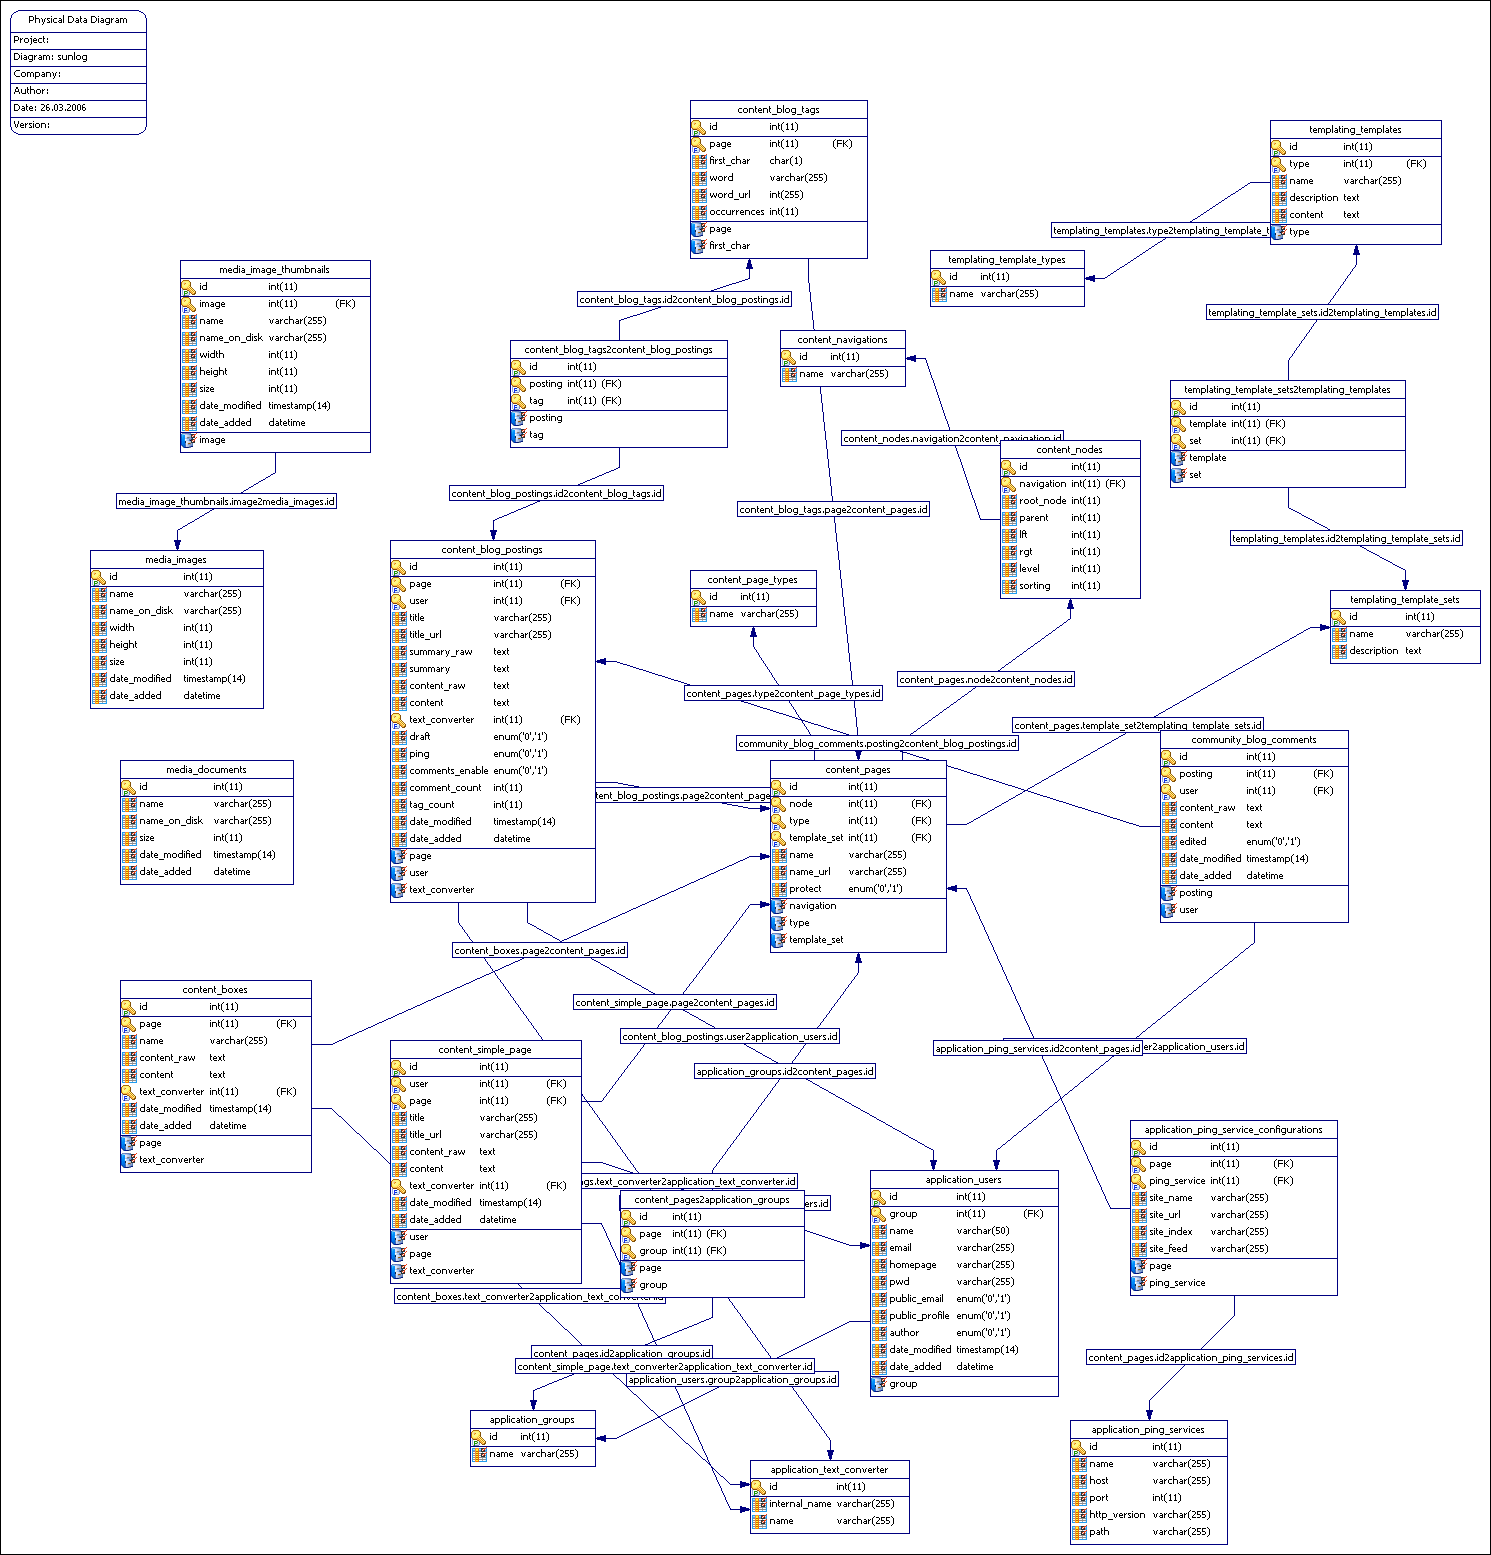
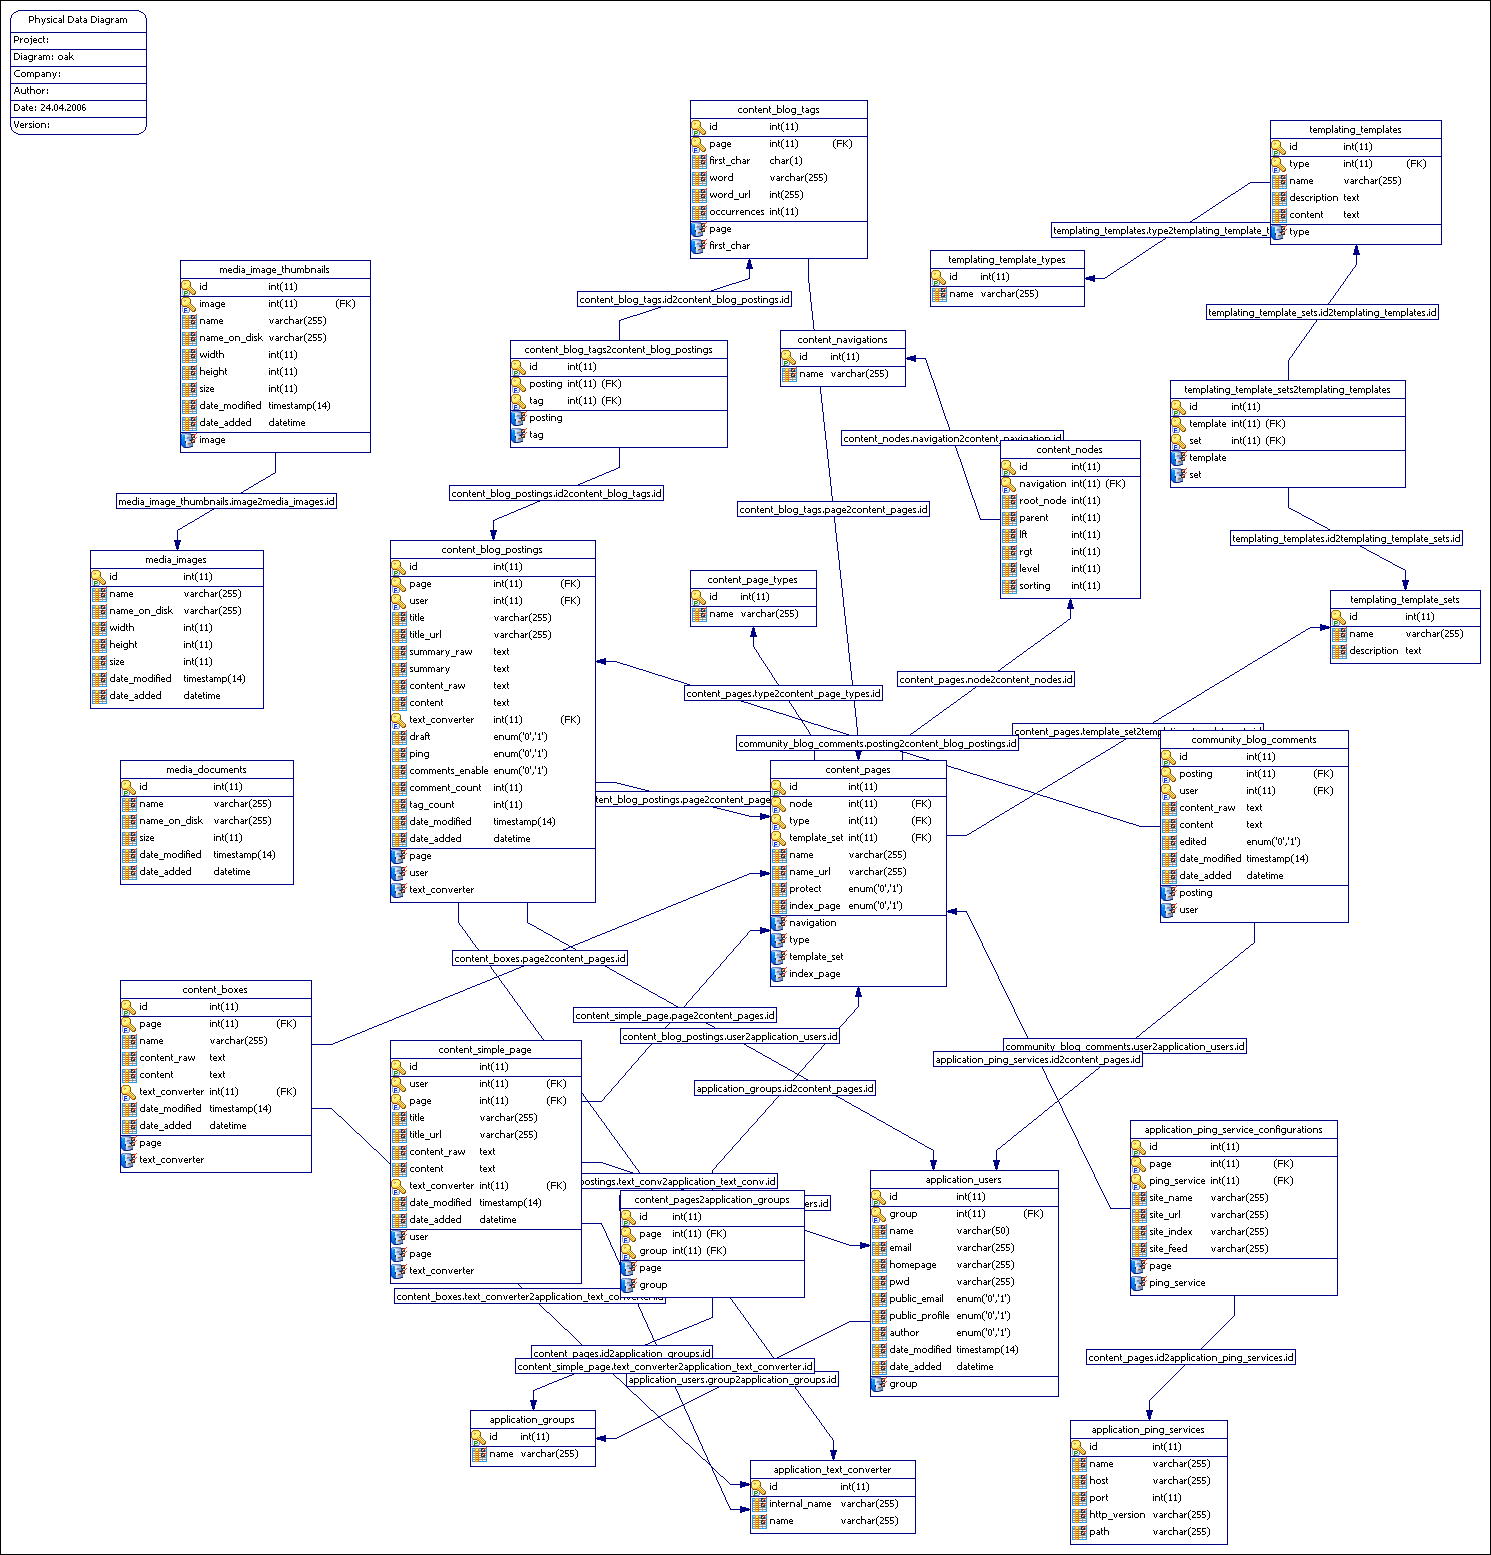
* Added index_page column to the table content_pages  * Added function to select the index page

diff --git a/oak/core/content_classes/page.class.php b/oak/core/content_classes/page.class.php
@@ -194,6 +194,7 @@ public function selectPage ($id)
 			`content_pages`.`template_set` AS `template_set`,
 			`content_pages`.`name` AS `name`,
 			`content_pages`.`name_url` AS `name_url`,
+			`content_pages`.`index_page` AS `index_page`,
 			`content_pages`.`protect` AS `protect`
 		FROM
 			".OAK_DB_CONTENT_PAGES." AS `content_pages`
@@ -283,6 +284,7 @@ public function selectPages ($params = array())
 			`content_pages`.`template_set` AS `template_set`,
 			`content_pages`.`name` AS `name`,
 			`content_pages`.`name_url` AS `name_url`,
+			`content_pages`.`index_page` AS `index_page`,
 			`content_pages`.`protect` AS `protect`
 		FROM
 			".OAK_DB_CONTENT_PAGES." AS `content_pages`
@@ -328,6 +330,39 @@ public function selectPages ($params = array())
 	}
 
 	return $this->base->db->select($sql, 'multi', $bind_params);
+}
+
+/**
+ * Selects index page. Returns array with the complete page
+ * information.
+ *
+ * @throws Content_PageException
+ * @return array
+ */
+public function selectIndexPage ()
+{
+	// get id of the index page
+	$sql = "
+		SELECT 
+			`content_pages`.`id` AS `id`
+		FROM
+			".OAK_DB_CONTENT_PAGES." AS `content_pages`
+		WHERE
+			`content_pages`.`index_page` = '1'
+		LIMIT
+			1
+	";
+	
+	// execute query
+	$result = (int)$this->base->db->select($sql, 'field');
+	
+	// make sure that there is some index page
+	if ($result < 1) {
+		throw new Content_PageException("Unable to find an index page");
+	}
+	
+	// return complete page information
+	return $this->selectPage($result);
 }
 
 // end of class
